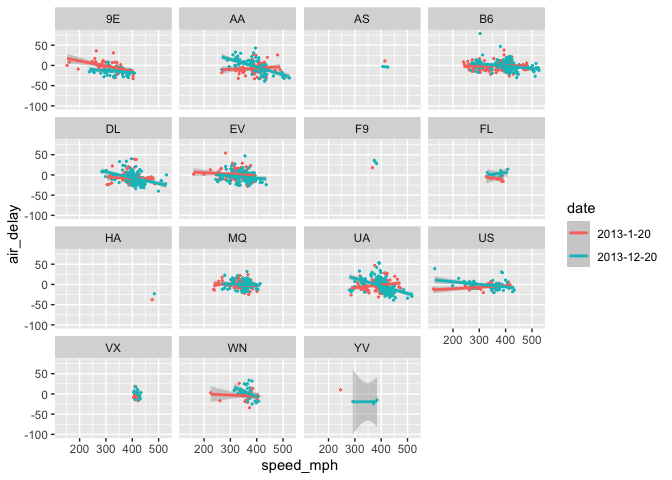
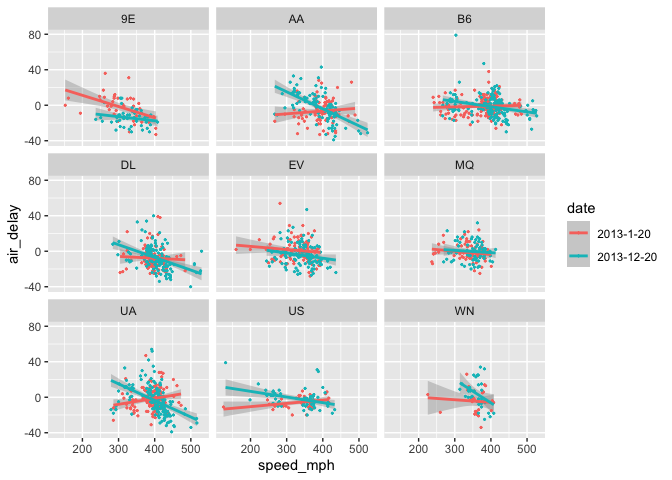
updates after teaching class

Changed region(s): [[0.0312, 0.0, 0.8125, 1.0], [0.6875, 0.0312, 0.75, 0.0625], [0.1562, 0.0312, 0.2188, 0.0625]]

diff --git a/tidyverse_intro.md b/tidyverse_intro.md
@@ -55,7 +55,7 @@ Let’s get started!
 
 ``` r
 # Package and library installation
-packages_needed = c("tidyverse", "knitr", "nycflights13")
+packages_needed = c("tidyverse", "knitr", "nycflights13", "magrittr")
 packages_installed = packages_needed %in% rownames(installed.packages())
 
 if (any(! packages_installed))
@@ -75,6 +75,17 @@ for (i in 1:length(packages_needed)) {
     ## ── Conflicts ────────────────────────────────────────── tidyverse_conflicts() ──
     ## x dplyr::filter() masks stats::filter()
     ## x dplyr::lag()    masks stats::lag()
+
+    ## 
+    ## Attaching package: 'magrittr'
+
+    ## The following object is masked from 'package:purrr':
+    ## 
+    ##     set_names
+
+    ## The following object is masked from 'package:tidyr':
+    ## 
+    ##     extract
 
 # Engagement
 
@@ -123,26 +134,26 @@ kable(ex_1)
 
 | plot\_replicate | date                             | measurement\_1 |
 |:----------------|:---------------------------------|---------------:|
-| A\_1            | 2016-06-12                       |             12 |
-| A\_2            | 2016-06-12                       |              9 |
-| A\_3            | 2016-06-12                       |              7 |
-| A\_4            | 2016-06-12                       |             11 |
-| B\_1            | 2016-06-12                       |              9 |
-| B\_2            | 2016-06-12                       |              5 |
-| B\_3            | 2016-06-12                       |              6 |
-| B\_4            | 2016-06-12                       |             10 |
-| C\_1            | 2016-06-12                       |              4 |
-| C\_2            | 2016-06-12                       |              6 |
-| C\_3            | 2016-06-12                       |             10 |
-| C\_4            | 2016-06-12                       |              6 |
-| D\_1            | 2016-06-12                       |              9 |
-| D\_2            | 2016-06-12                       |              6 |
-| D\_3            | 2016-06-12                       |              5 |
-| D\_4            | 2016-06-12                       |              6 |
-| E\_1            | 2016-06-12                       |             13 |
-| E\_2            | 2016-06-12                       |              7 |
-| E\_3            | 2016-06-12                       |             11 |
-| E\_4            | 2016-06-12, measured after lunch |              7 |
+| A\_1            | 2016-06-12                       |             11 |
+| A\_2            | 2016-06-12                       |             10 |
+| A\_3            | 2016-06-12                       |              8 |
+| A\_4            | 2016-06-12                       |             12 |
+| B\_1            | 2016-06-12                       |             10 |
+| B\_2            | 2016-06-12                       |             15 |
+| B\_3            | 2016-06-12                       |             10 |
+| B\_4            | 2016-06-12                       |              9 |
+| C\_1            | 2016-06-12                       |             14 |
+| C\_2            | 2016-06-12                       |              9 |
+| C\_3            | 2016-06-12                       |              9 |
+| C\_4            | 2016-06-12                       |              7 |
+| D\_1            | 2016-06-12                       |             11 |
+| D\_2            | 2016-06-12                       |              8 |
+| D\_3            | 2016-06-12                       |              4 |
+| D\_4            | 2016-06-12                       |             15 |
+| E\_1            | 2016-06-12                       |              6 |
+| E\_2            | 2016-06-12                       |             12 |
+| E\_3            | 2016-06-12                       |              9 |
+| E\_4            | 2016-06-12, measured after lunch |             13 |
 
 ``` r
 # View(ex_1)
@@ -156,26 +167,26 @@ aggregate(measurement_1 ~ plot_replicate, FUN = mean, data = ex_1)
 ```
 
     ##    plot_replicate measurement_1
-    ## 1             A_1            12
-    ## 2             A_2             9
-    ## 3             A_3             7
-    ## 4             A_4            11
-    ## 5             B_1             9
-    ## 6             B_2             5
-    ## 7             B_3             6
-    ## 8             B_4            10
-    ## 9             C_1             4
-    ## 10            C_2             6
-    ## 11            C_3            10
-    ## 12            C_4             6
-    ## 13            D_1             9
-    ## 14            D_2             6
-    ## 15            D_3             5
-    ## 16            D_4             6
-    ## 17            E_1            13
-    ## 18            E_2             7
-    ## 19            E_3            11
-    ## 20            E_4             7
+    ## 1             A_1            11
+    ## 2             A_2            10
+    ## 3             A_3             8
+    ## 4             A_4            12
+    ## 5             B_1            10
+    ## 6             B_2            15
+    ## 7             B_3            10
+    ## 8             B_4             9
+    ## 9             C_1            14
+    ## 10            C_2             9
+    ## 11            C_3             9
+    ## 12            C_4             7
+    ## 13            D_1            11
+    ## 14            D_2             8
+    ## 15            D_3             4
+    ## 16            D_4            15
+    ## 17            E_1             6
+    ## 18            E_2            12
+    ## 19            E_3             9
+    ## 20            E_4            13
 
 Guess it’s “back to excel”
 
@@ -191,46 +202,46 @@ kable(ex_2)
 
 | plot | replicate | parameter  | value |
 |:-----|----------:|:-----------|------:|
-| A    |         1 | aphids\_n  |   896 |
-| A    |         1 | height\_cm |   295 |
-| A    |         2 | aphids\_n  |   893 |
-| A    |         2 | height\_cm |   301 |
-| A    |         3 | aphids\_n  |   911 |
-| A    |         3 | height\_cm |   288 |
-| A    |         4 | aphids\_n  |   890 |
-| A    |         4 | height\_cm |   288 |
-| B    |         1 | aphids\_n  |   905 |
-| B    |         1 | height\_cm |   285 |
-| B    |         2 | aphids\_n  |   917 |
-| B    |         2 | height\_cm |   292 |
-| B    |         3 | aphids\_n  |   903 |
-| B    |         3 | height\_cm |   283 |
-| B    |         4 | aphids\_n  |   910 |
-| B    |         4 | height\_cm |   277 |
-| C    |         1 | aphids\_n  |   908 |
-| C    |         1 | height\_cm |   289 |
-| C    |         2 | aphids\_n  |   917 |
-| C    |         2 | height\_cm |   271 |
+| A    |         1 | aphids\_n  |   893 |
+| A    |         1 | height\_cm |   289 |
+| A    |         2 | aphids\_n  |   908 |
+| A    |         2 | height\_cm |   271 |
+| A    |         3 | aphids\_n  |   887 |
+| A    |         3 | height\_cm |   273 |
+| A    |         4 | aphids\_n  |   901 |
+| A    |         4 | height\_cm |   274 |
+| B    |         1 | aphids\_n  |   887 |
+| B    |         1 | height\_cm |   287 |
+| B    |         2 | aphids\_n  |   912 |
+| B    |         2 | height\_cm |   259 |
+| B    |         3 | aphids\_n  |   899 |
+| B    |         3 | height\_cm |   292 |
+| B    |         4 | aphids\_n  |   909 |
+| B    |         4 | height\_cm |   290 |
+| C    |         1 | aphids\_n  |   901 |
+| C    |         1 | height\_cm |   286 |
+| C    |         2 | aphids\_n  |   887 |
+| C    |         2 | height\_cm |   285 |
 | C    |         3 | aphids\_n  |   912 |
-| C    |         3 | height\_cm |   293 |
-| C    |         4 | aphids\_n  |   905 |
-| C    |         4 | height\_cm |   286 |
-| D    |         1 | aphids\_n  |   899 |
-| D    |         1 | height\_cm |   269 |
-| D    |         2 | aphids\_n  |   900 |
-| D    |         2 | height\_cm |   290 |
-| D    |         3 | aphids\_n  |   890 |
-| D    |         3 | height\_cm |   275 |
-| D    |         4 | aphids\_n  |   897 |
-| D    |         4 | height\_cm |   251 |
-| E    |         1 | aphids\_n  |   900 |
-| E    |         1 | height\_cm |   277 |
-| E    |         2 | aphids\_n  |   905 |
-| E    |         2 | height\_cm |   266 |
-| E    |         3 | aphids\_n  |   902 |
-| E    |         3 | height\_cm |   274 |
-| E    |         4 | aphids\_n  |   906 |
-| E    |         4 | height\_cm |   279 |
+| C    |         3 | height\_cm |   290 |
+| C    |         4 | aphids\_n  |   921 |
+| C    |         4 | height\_cm |   299 |
+| D    |         1 | aphids\_n  |   897 |
+| D    |         1 | height\_cm |   289 |
+| D    |         2 | aphids\_n  |   901 |
+| D    |         2 | height\_cm |   286 |
+| D    |         3 | aphids\_n  |   925 |
+| D    |         3 | height\_cm |   255 |
+| D    |         4 | aphids\_n  |   892 |
+| D    |         4 | height\_cm |   292 |
+| E    |         1 | aphids\_n  |   905 |
+| E    |         1 | height\_cm |   268 |
+| E    |         2 | aphids\_n  |   903 |
+| E    |         2 | height\_cm |   300 |
+| E    |         3 | aphids\_n  |   896 |
+| E    |         3 | height\_cm |   262 |
+| E    |         4 | aphids\_n  |   900 |
+| E    |         4 | height\_cm |   275 |
 
 ``` r
 # View(ex_2)
@@ -414,6 +425,18 @@ iris
     ## 148          6.5         3.0          5.2         2.0  virginica
     ## 149          6.2         3.4          5.4         2.3  virginica
     ## 150          5.9         3.0          5.1         1.8  virginica
+
+``` r
+head(iris)
+```
+
+    ##   Sepal.Length Sepal.Width Petal.Length Petal.Width Species
+    ## 1          5.1         3.5          1.4         0.2  setosa
+    ## 2          4.9         3.0          1.4         0.2  setosa
+    ## 3          4.7         3.2          1.3         0.2  setosa
+    ## 4          4.6         3.1          1.5         0.2  setosa
+    ## 5          5.0         3.6          1.4         0.2  setosa
+    ## 6          5.4         3.9          1.7         0.4  setosa
 
 ``` r
 # tibble
@@ -614,8 +637,11 @@ log(x) # this is verb, noun
 The forward pipe aligns code with the order in which we think and speak
 
 ``` r
-## # <- this is noun, verb
+x %>% log() # this is noun, verb
 ```
+
+    ## [1] -2.216407397 -1.024432890 -0.462035460 -0.004008021 -0.663588378
+    ## [6] -1.951928221 -4.074541935 -0.187535124 -0.097612829
 
 An annoying but useful example:
 
@@ -985,6 +1011,27 @@ flights %>% glimpse()
     ## $ minute         <dbl> 15, 29, 40, 45, 0, 58, 0, 0, 0, 0, 0, 0, 0, 0, 0, 59, 0…
     ## $ time_hour      <dttm> 2013-01-01 05:00:00, 2013-01-01 05:00:00, 2013-01-01 0…
 
+``` r
+flights %>% filter(month == 2, day == 10, dep_delay <= 0)
+```
+
+    ## # A tibble: 429 x 19
+    ##     year month   day dep_time sched_dep_time dep_delay arr_time sched_arr_time
+    ##    <int> <int> <int>    <int>          <int>     <dbl>    <int>          <int>
+    ##  1  2013     2    10      455            500        -5      625            650
+    ##  2  2013     2    10      553            600        -7      826            858
+    ##  3  2013     2    10      556            600        -4      708            716
+    ##  4  2013     2    10      556            600        -4      923            910
+    ##  5  2013     2    10      557            600        -3      854            911
+    ##  6  2013     2    10      557            559        -2      915            930
+    ##  7  2013     2    10      558            600        -2      810            815
+    ##  8  2013     2    10      600            600         0      849            905
+    ##  9  2013     2    10      603            610        -7      850            915
+    ## 10  2013     2    10      607            610        -3      811            817
+    ## # … with 419 more rows, and 11 more variables: arr_delay <dbl>, carrier <chr>,
+    ## #   flight <int>, tailnum <chr>, origin <chr>, dest <chr>, air_time <dbl>,
+    ## #   distance <dbl>, hour <dbl>, minute <dbl>, time_hour <dttm>
+
 Chat your answers to Art as quickly as you can…
 
 ``` r
@@ -1013,6 +1060,27 @@ flights %>% select(distance, air_time)
     ##  9      944      140
     ## 10      733      138
     ## # … with 336,766 more rows
+
+``` r
+flights %>% select(starts_with("sched"), everything())
+```
+
+    ## # A tibble: 336,776 x 19
+    ##    sched_dep_time sched_arr_time  year month   day dep_time dep_delay arr_time
+    ##             <int>          <int> <int> <int> <int>    <int>     <dbl>    <int>
+    ##  1            515            819  2013     1     1      517         2      830
+    ##  2            529            830  2013     1     1      533         4      850
+    ##  3            540            850  2013     1     1      542         2      923
+    ##  4            545           1022  2013     1     1      544        -1     1004
+    ##  5            600            837  2013     1     1      554        -6      812
+    ##  6            558            728  2013     1     1      554        -4      740
+    ##  7            600            854  2013     1     1      555        -5      913
+    ##  8            600            723  2013     1     1      557        -3      709
+    ##  9            600            846  2013     1     1      557        -3      838
+    ## 10            600            745  2013     1     1      558        -2      753
+    ## # … with 336,766 more rows, and 11 more variables: arr_delay <dbl>,
+    ## #   carrier <chr>, flight <int>, tailnum <chr>, origin <chr>, dest <chr>,
+    ## #   air_time <dbl>, distance <dbl>, hour <dbl>, minute <dbl>, time_hour <dttm>
 
 ## Verb: `mutate()`
 
@@ -1049,7 +1117,7 @@ flights %>%
 ## Verbs: `group_by()` and `summarize()`
 
 -   Frequently used together
--   Roughly like `tapply()` but much more flexible
+-   Roughly like `tapply()` or `aggregate()` but much more flexible
 -   Act on rows grouped by variables, usually character or factor levels
 -   Prepares data frame for further transformation, produces results
 
@@ -1199,16 +1267,27 @@ head(as.data.frame(flights))
 ``` r
 flights_2 <- flights[which(complete.cases(flights)), c(10, 16, 15)]
 flights_2$speed_mph <- flights_2$distance / (flights_2$air_time / 60)
-flights_speed <- aggregate(speed_mph ~ carrier, FUN = mean, data = flights) # what???
-```
-
-    ## Error in eval(predvars, data, env): object 'speed_mph' not found
-
-``` r
+flights_speed <- aggregate(speed_mph ~ carrier, FUN = mean, data = flights_2) # what???
 flights_speed[order(desc(flights_speed$speed_mph)), ]
 ```
 
-    ## Error in eval(expr, envir, enclos): object 'flights_speed' not found
+    ##    carrier speed_mph
+    ## 9       HA  480.3577
+    ## 14      VX  446.1749
+    ## 3       AS  443.6789
+    ## 7       F9  425.1721
+    ## 12      UA  420.8838
+    ## 5       DL  418.4628
+    ## 2       AA  417.4727
+    ## 15      WN  400.5320
+    ## 4       B6  399.9715
+    ## 8       FL  394.3581
+    ## 10      MQ  368.4028
+    ## 11      OO  366.3201
+    ## 6       EV  362.9436
+    ## 1       9E  345.4304
+    ## 13      US  341.9397
+    ## 16      YV  331.9700
 
 Of course it’s doable, but it’s harder to see what happened, and the
 intermediate objects always cause problems \#\#\# Ok, what do the
@@ -1273,7 +1352,7 @@ flights %>%
     filter(month %in% c(1, 12),
            day == 20, !is.na(air_delay),
            dep_delay <= 60) %>%
-    # filter(!(carrier %in% c("AS", "F9", "FL", "HA", "VX", "YV"))) %>%
+    filter(!(carrier %in% c("AS", "F9", "FL", "HA", "VX", "YV"))) %>%
     ggplot(aes(x = speed_mph, y = air_delay, group = date)) +
     geom_smooth(aes(color = date),
                 size   = 0,
@@ -1285,18 +1364,7 @@ flights %>%
 ```
 
     ## `geom_smooth()` using formula 'y ~ x'
-
-    ## Warning in qt((1 - level)/2, df): NaNs produced
-
-    ## Warning in qt((1 - level)/2, df): NaNs produced
-
     ## `geom_smooth()` using formula 'y ~ x'
-
-    ## Warning in max(ids, na.rm = TRUE): no non-missing arguments to max; returning -
-    ## Inf
-
-    ## Warning in max(ids, na.rm = TRUE): no non-missing arguments to max; returning -
-    ## Inf
 
 ![](tidyverse_intro_files/figure-gfm/flights_EDA_scatterplot_facets-1.png)<!-- -->
 
